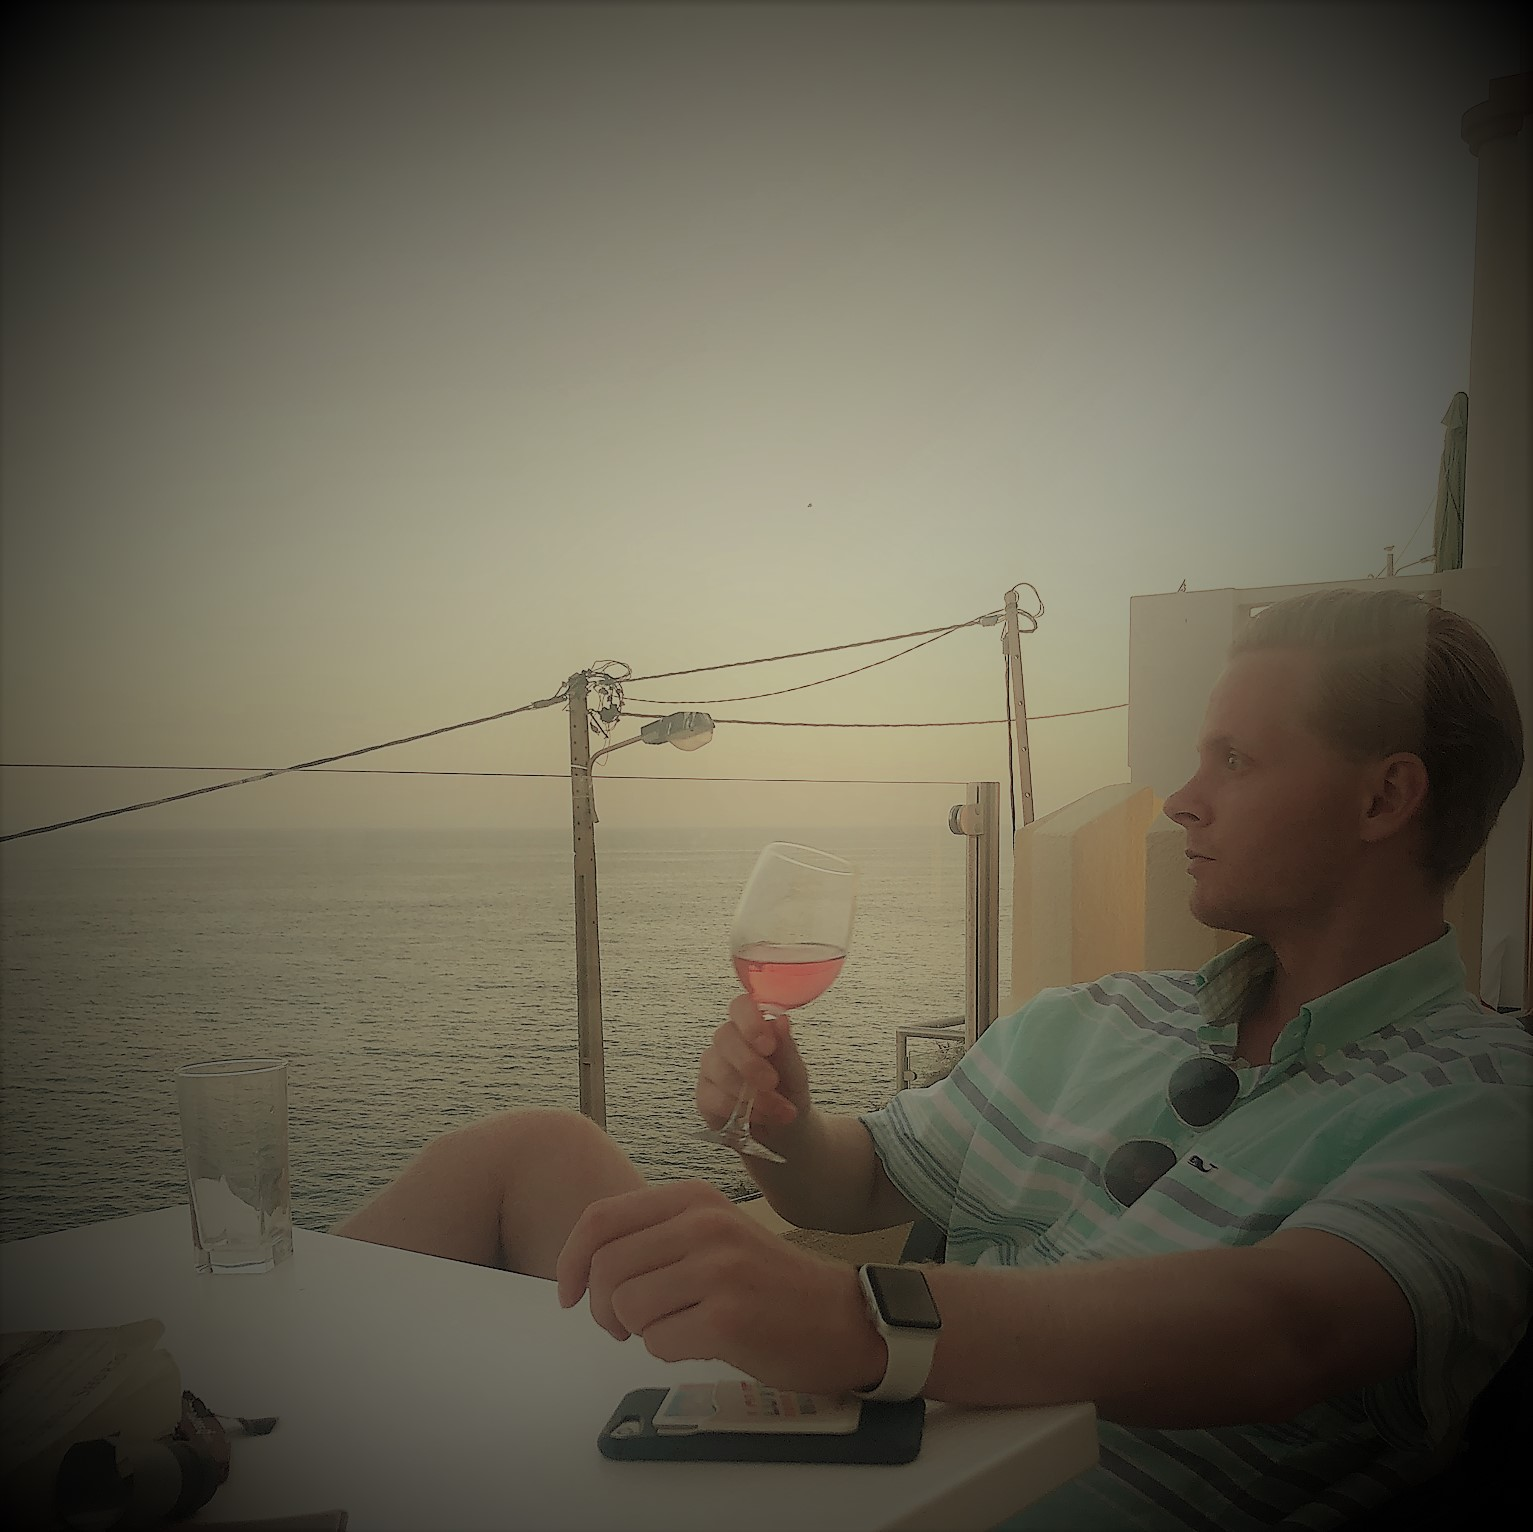
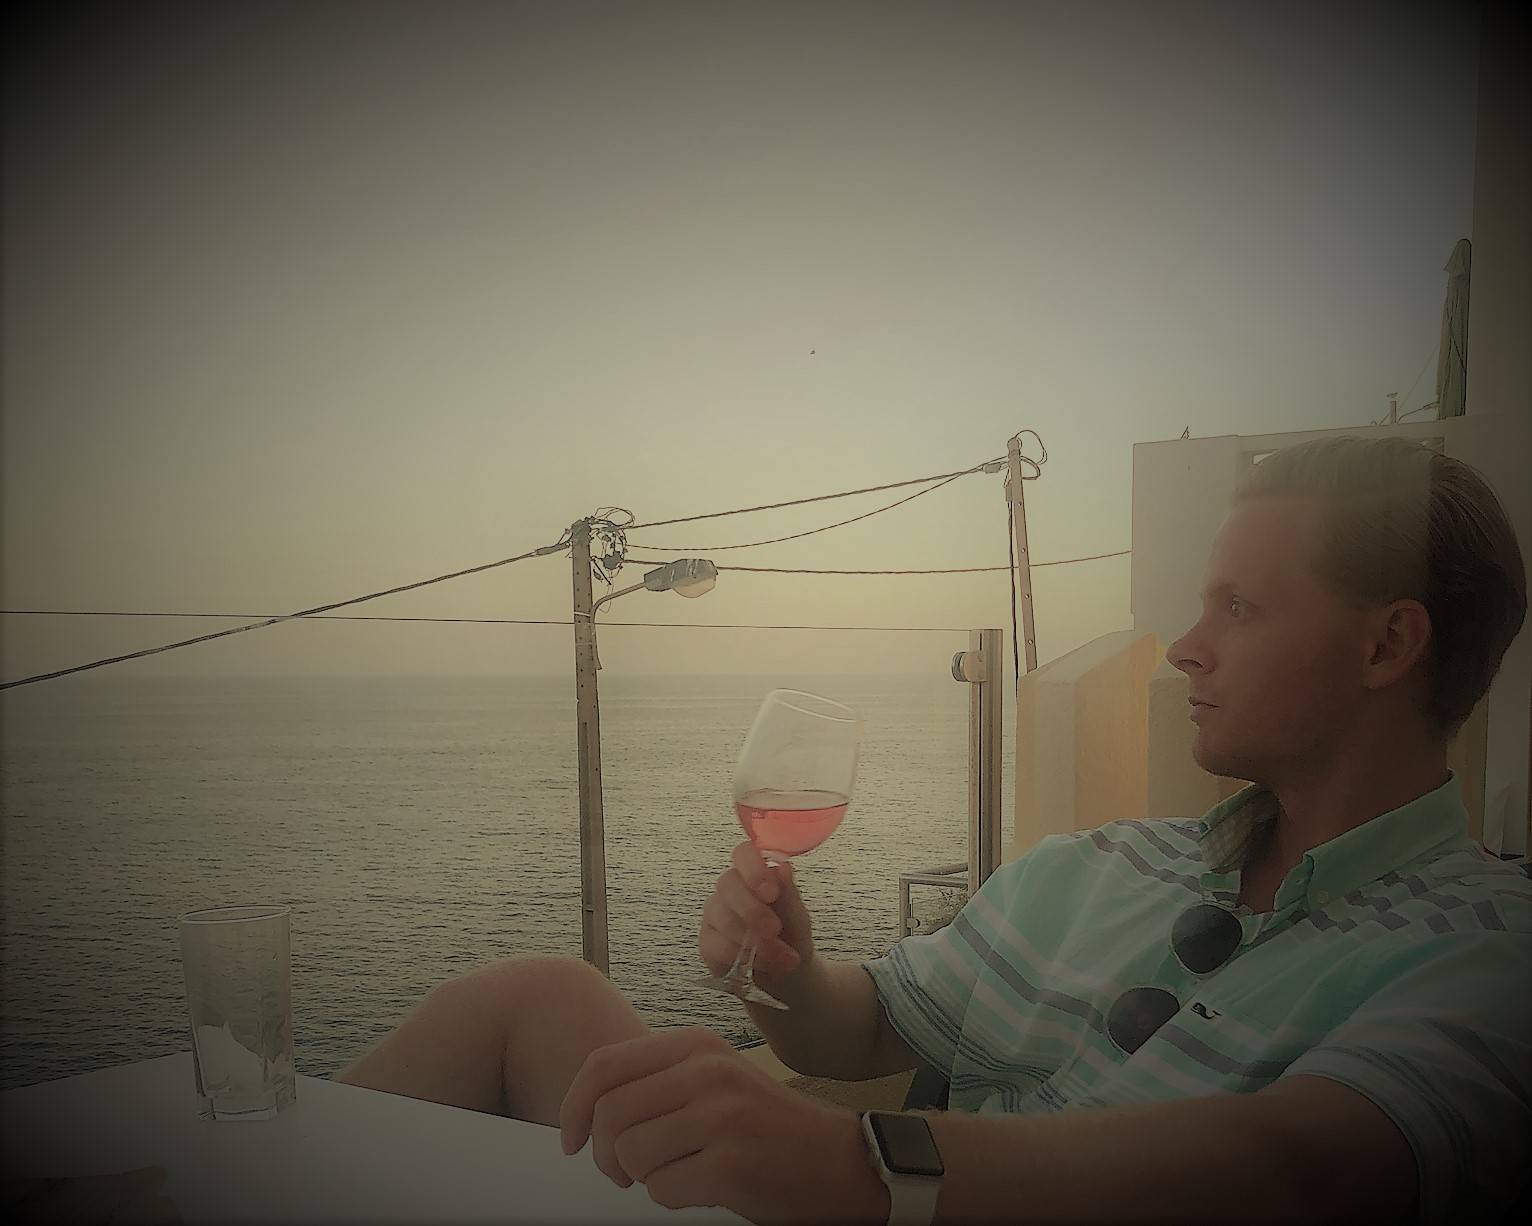
Photo Fix

diff --git a/stylesheets/about.css b/stylesheets/about.css
@@ -1,7 +1,6 @@
 body {
   background-image: url("/images/Portugal_Solo.jpg");
-  background-size: 100% 100%;
-  /*background-size: cover;*/
+  background-size: cover;
   background-position: 50% 50%;
   width: 100%;
   height: 100%;
